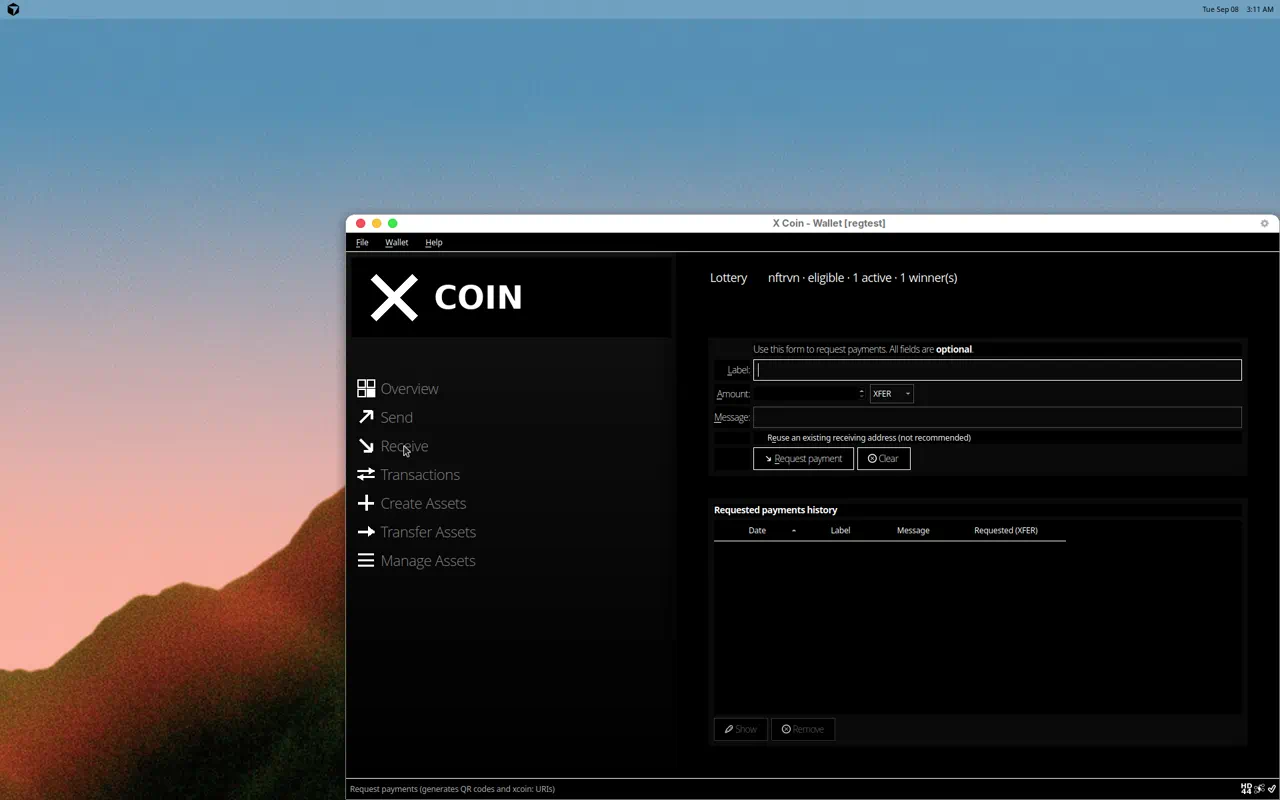
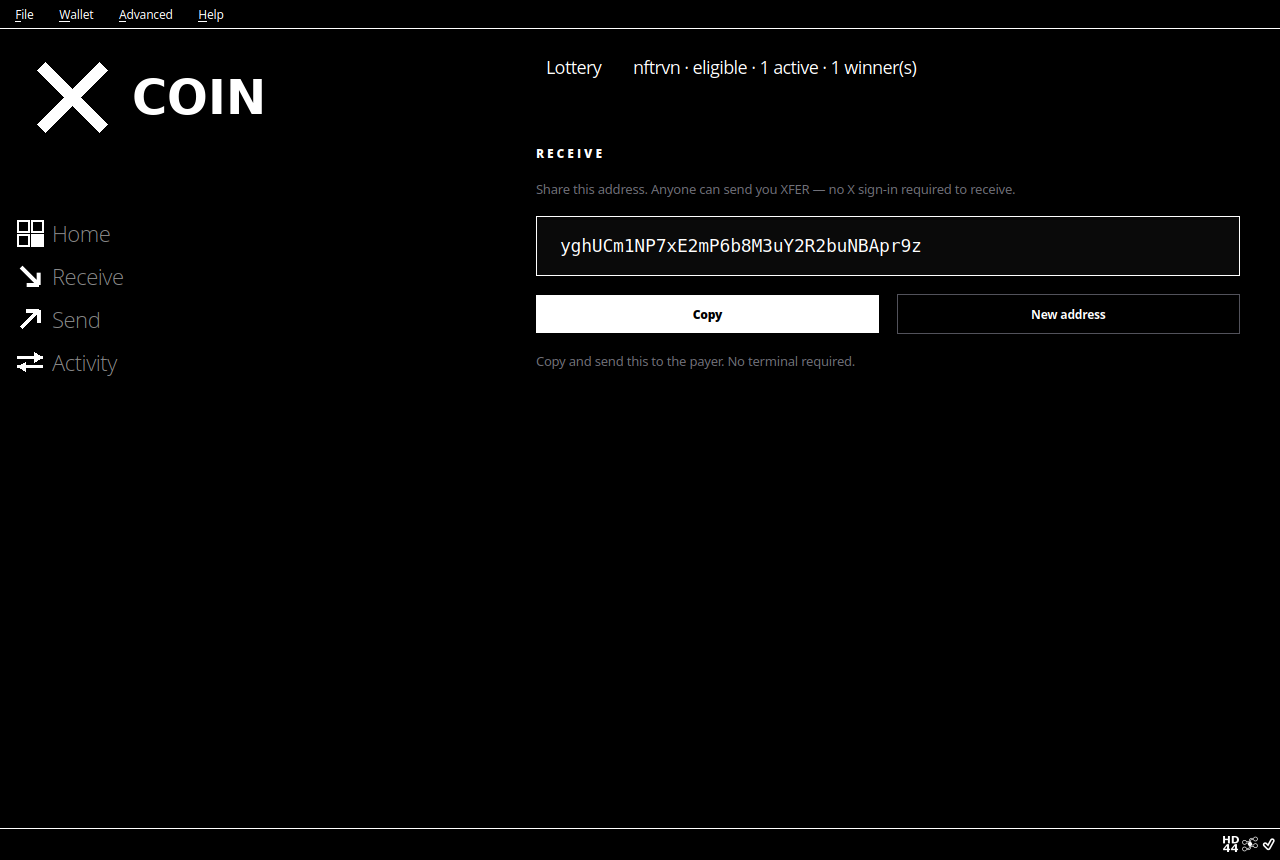
Require Sign in with X to send, receive, and own assets
Authentication is the proof of identity. getnewaddress, send, and
asset transfer fail closed without a session. Lottery stays a second
gate: signed-in plus X-Verified allowlist.

diff --git a/src/test/xsession_tests.cpp b/src/test/xsession_tests.cpp
@@ -30,6 +30,8 @@ BOOST_AUTO_TEST_CASE(typed_handle_rejected_session_accepted)
 {
     xsession::ClearSession();
     std::string err;
+    BOOST_CHECK(!xsession::RequireSession(err));
+    BOOST_CHECK(err.find("Sign in with X") != std::string::npos);
     BOOST_CHECK(!xsession::RequireHandle("nftrvn", err));
     BOOST_CHECK(err.find("Sign in with X") != std::string::npos);
 
@@ -41,6 +43,7 @@ BOOST_AUTO_TEST_CASE(typed_handle_rejected_session_accepted)
     BOOST_CHECK(!xsession::RequireHandle("nftrvn", err));
     BOOST_CHECK(err.find("impersonation") != std::string::npos || err.find("cannot use") != std::string::npos);
 
+    BOOST_CHECK(xsession::RequireSession(err));
     BOOST_CHECK(xsession::RequireHandle("alice", err));
     BOOST_CHECK(xsession::RequireHandle("ALICE", err));
 }

diff --git a/docs/XSIGNIN.md b/docs/XSIGNIN.md
@@ -4,9 +4,11 @@
 
 Private test only. Do not publish this chain.
 
-Signing in is what stops impersonation. A typed handle is not an
-identity. The wallet uses OAuth 2.0 PKCE, then `GET /2/users/me`, and
-binds **that** user id + username to this node's datadir.
+Signing in is what stops impersonation and **proves asset ownership**.
+A typed handle is not an identity. The wallet uses OAuth 2.0 PKCE, then
+`GET /2/users/me`, and binds **that** user id + username to this node's
+datadir. Send and receive require that session. Only X-Verified
+(allowlisted) signed-in handles enter the lottery.
 
 ## What the node stores
 
@@ -19,10 +21,11 @@ After a successful sign-in:
 
 Proof message: `xcoin-xsession|{id}|{username}|{exp}`.
 
-`linkxaccount`, `registeractivenode`, and lottery eligibility require a
-valid proof. `linkxaccount otherperson` is rejected if the session is
-not `otherperson`. Typed `-xaccount=` is ignored without a matching
-session.
+`getnewaddress`, `sendtoaddress`, `linkxaccount`, `registeractivenode`,
+and lottery identity require a valid proof. Lottery also requires the
+X-Verified allowlist. `linkxaccount otherperson` is rejected if the
+session is not `otherperson`. Typed `-xaccount=` is ignored without a
+matching session.
 
 The node never pretends login succeeded without a real access token
 (or, on `-regtest` only, a mock `users/me` payload).

diff --git a/docs/LOTTERY.md b/docs/LOTTERY.md
@@ -211,9 +211,9 @@ commitment, pays the wrong count/scripts, or splits the subsidy incorrectly.
 - **xhb impersonation:** gossip carries a handle, not a signature binding that
   handle to a script. A malicious peer can claim an allowlisted handle.
   Consensus still binds coinbase to committed **scripts**, not handles.
-- **Unlinked wallets:** X-link is **not** required to hold, receive, or send
-  XFER (or to receive/transfer assets sent to you). Linking is lottery
-  eligibility (and, when the sibling assigner lands, being given a main asset).
+- **Unsigned-in wallets:** Sign in with X is required to send, receive,
+  and prove asset ownership. Lottery additionally requires the handle
+  to be X-Verified on the operator allowlist.
 - Clock skew can delay a slot; height still maps 1:1 (`slot = genesisSlot + h`).
   You cannot skip or double-pay a height on one chain. Catch-up produces one
   height per loop when wall-clock is ahead; `generatetoaddress` is regtest-only

diff --git a/docs/LAUNCH.md b/docs/LAUNCH.md
@@ -56,10 +56,10 @@ Subsidy starts at height 1 via the lottery. Spendable lifetime supply is
 integer right-shift; ~21 billion minus unpaid genesis and `>>=` dust).
 `MAX_MONEY` is 21,000,000,000 XFER (sanity cap, not the minted total).
 
-**Unlinked users can transact.** Linking X is required for lottery
-eligibility (and for being assigned a main asset). It is **not** required to
-hold, receive, or send XFER. `sendtoaddress` / P2P / mempool / validation do
-not check for an X handle.
+**Sign in with X is required to send and receive.** Authentication
+proves it is you and is the key to asset ownership. Lottery eligibility
+additionally requires an X-Verified (allowlisted) handle. A node
+without a session can still sync and relay.
 
 ## Publish a seed node
 

diff --git a/docs/ASSETS.md b/docs/ASSETS.md
@@ -84,9 +84,10 @@ assets. Restricted-only RPCs and the Qt Restricted tab are gone.
 `issue` of a new root is rejected with a clear error. Consensus rejects a
 500-XFER root burn and accepts only a zero-burn root that includes `XID1`.
 
-Unlinked wallets can still **receive, hold, and transfer** XFER and any
-asset sent to them. Linking is required to be assigned a main asset and to
-*issue* a sub/unique under it — not to hold or spend.
+Wallets without a Sign in with X session cannot **send or receive**.
+Authentication proves it is you and is the key to asset ownership.
+A node can still sync. Lottery needs a signed-in **X-Verified**
+allowlisted handle. Issue of a sub/unique also requires that session.
 
 ## Smoke
 

diff --git a/docs/FORK.md b/docs/FORK.md
@@ -65,7 +65,7 @@ Hashes are X16R of that block (not the imported genesis and not PoW-ground).
 seeds are empty — publish a seed with `addnode` / `seednode`. Fair launch:
 no IPO, no premine, no founder allocation. Height 0 is unspendable / not a
 payday. Spendable lifetime subsidy is **20,999,994,999.727 XFER**.
-`generatetoaddress` is regtest-only. Unlinked addresses can send and receive XFER.
+`generatetoaddress` is regtest-only. Send and receive require a Sign in with X session.
 
 **Address prefixes:** main P2PKH version **76** (`X…`), P2SH **139** (`x…`);
 test/regtest P2PKH **140** (`y…`). Asset burn addresses were regenerated

diff --git a/docs/RELEASE-1.0.md b/docs/RELEASE-1.0.md
@@ -67,9 +67,10 @@ Brand stills: [assets/brand/](../assets/brand/).
 
 ## Known limits
 
+- Sign in with X is required to send, receive, and own assets. Lottery
+  is X-Verified (allowlist) only. See [XSIGNIN.md](XSIGNIN.md).
 - Live X OAuth needs a developer Client ID (`xoauthclientid=`). This VM
   cannot complete a live login; `-regtest` mock `users/me` covers tests.
-  See [XSIGNIN.md](XSIGNIN.md).
 - No mobile app. No public DNS seeds. No exchange listing.
 - Restricted assets stay removed.
 - Internal C++ names (`RavenGUI`, `OP_RVN_ASSET`, copyright headers) stay;
